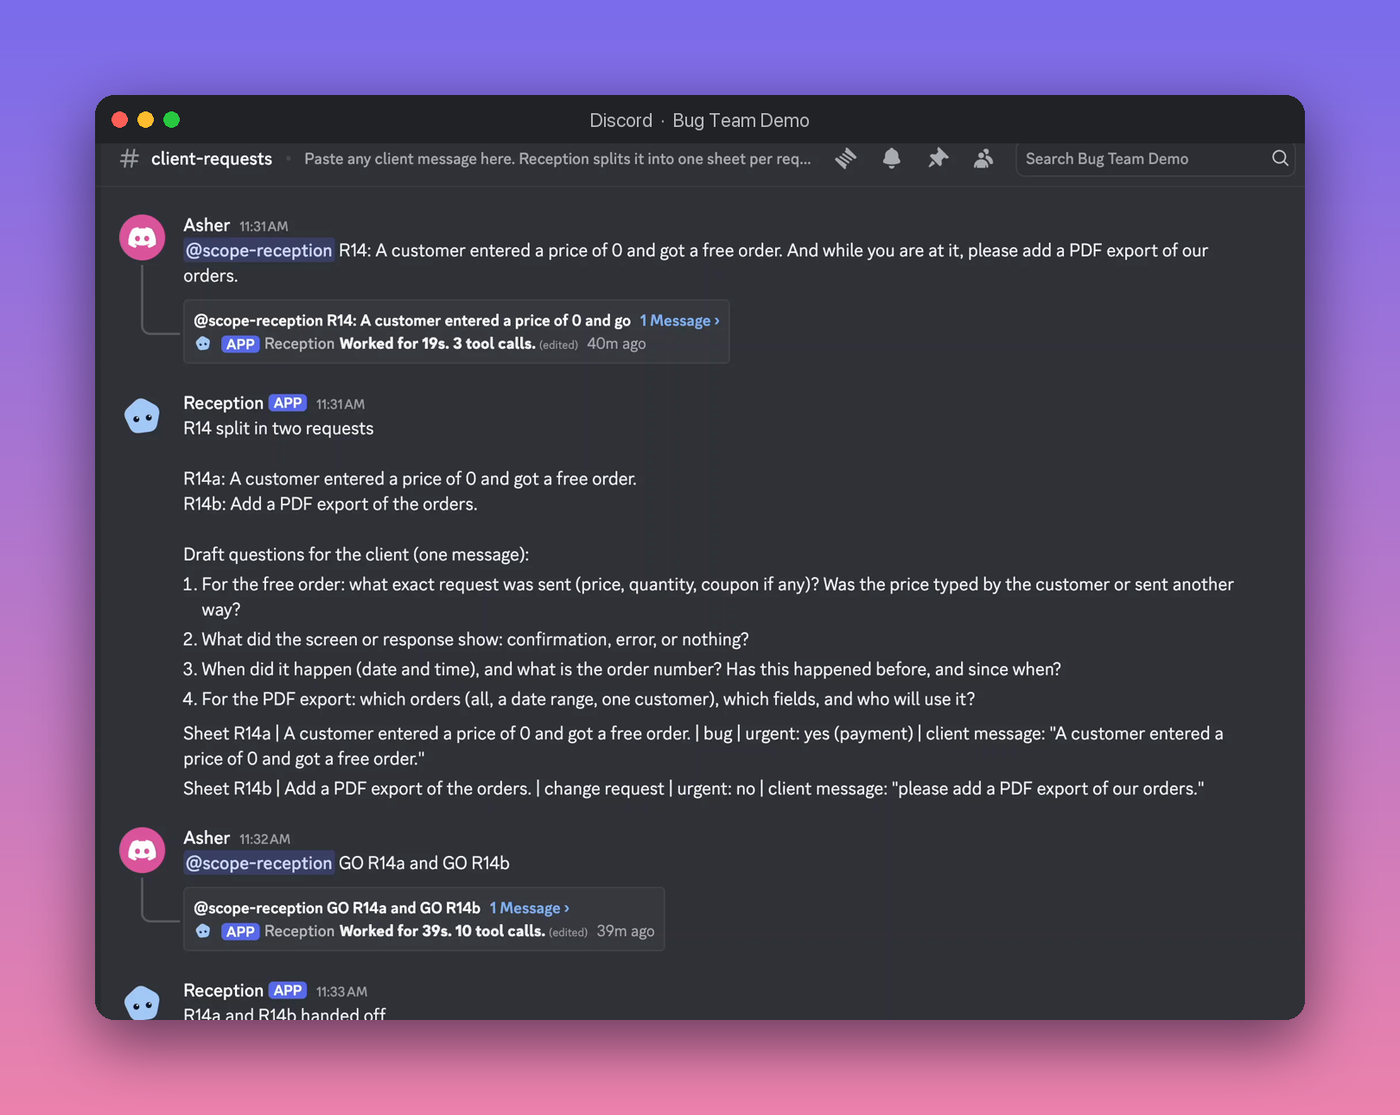
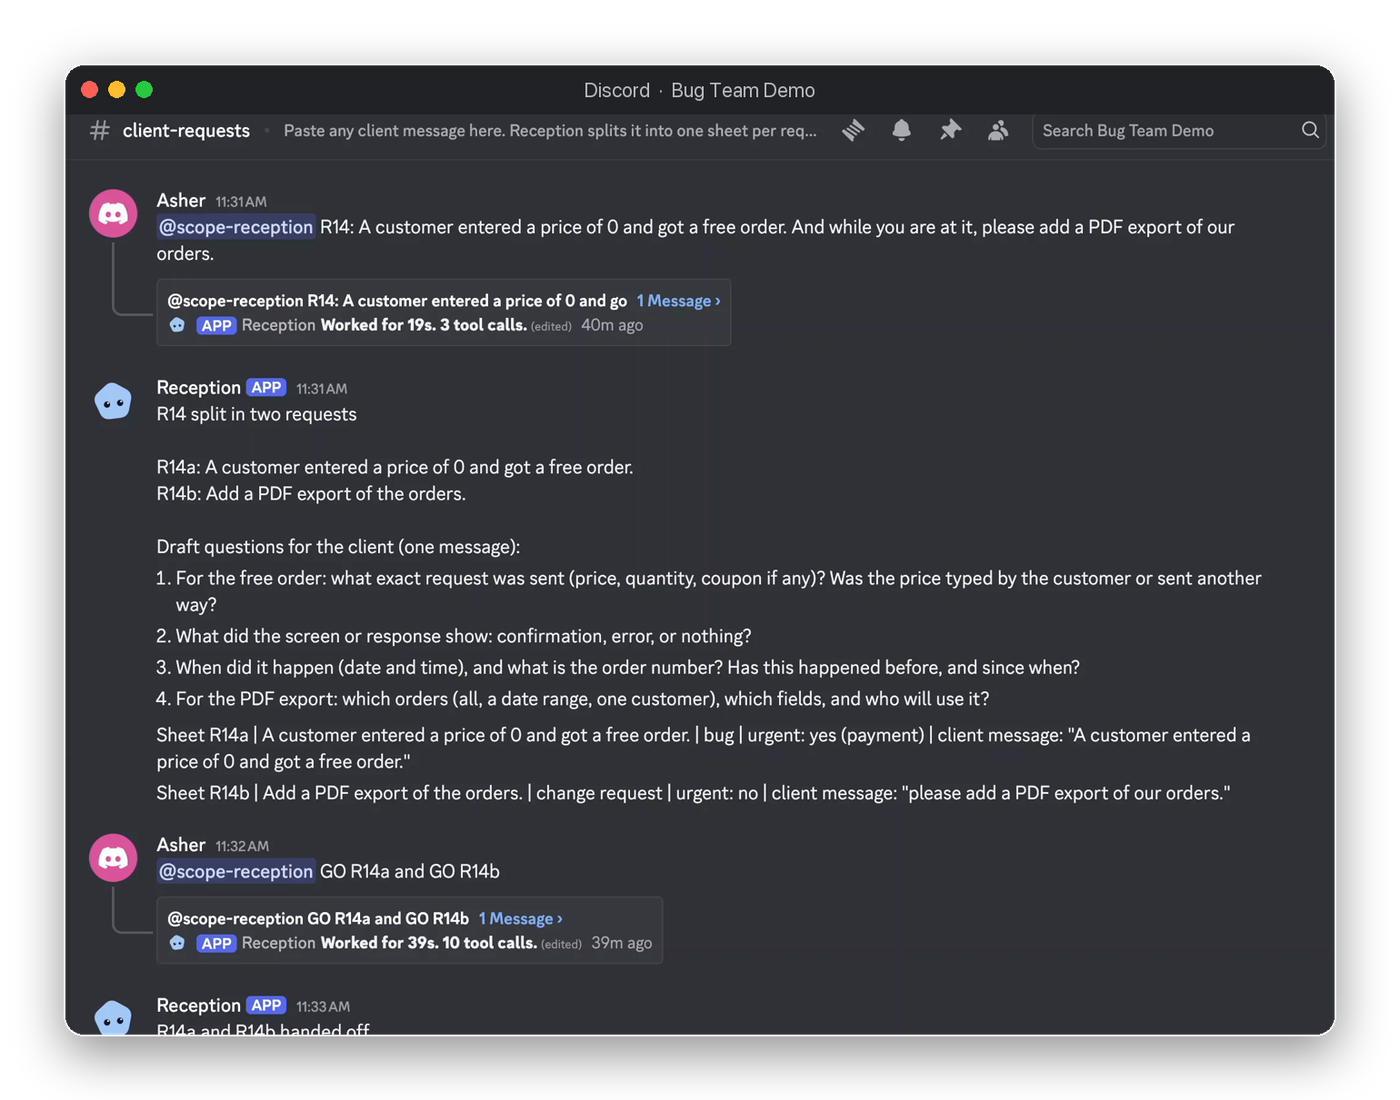
Blog mockups: transparent background, soft shadow, fits light and dark pages

diff --git a/docs/blog/mockup.py b/docs/blog/mockup.py
@@ -1,4 +1,4 @@
-"""Wraps docs/blog/shot*.png in a macOS style window on a soft gradient, (the diagram is diagram.html, rendered with headless Chrome).
+"""Wraps docs/blog/shot*.png in a macOS style window with a soft shadow on a transparent background, (the diagram is diagram.html, rendered with headless Chrome).
 
 Usage: python3 docs/blog/mockup.py   (Pillow). Reads shotN.png, writes shotN_mock.png and diagram.png.
 """
@@ -42,87 +42,21 @@ def window(shot, title):
 
 
 def mock(path):
+    """Transparent background with a soft shadow, so the window sits on any page color (Medium light or dark)."""
     shot = Image.open(path).convert("RGB")
     win, mask = window(shot, "Discord  ·  Bug Team Demo")
-    pad = 110
+    pad = 70
     W, H = win.width + 2 * pad, win.height + 2 * pad
-    bg = gradient(W, H, (122, 108, 236), (236, 130, 172))
     shadow = Image.new("RGBA", (W, H), (0, 0, 0, 0))
-    ImageDraw.Draw(shadow).rounded_rectangle((pad, pad + 24, pad + win.width, pad + win.height + 24), 22,
-                                             fill=(20, 10, 40, 150))
-    bg = Image.alpha_composite(bg.convert("RGBA"), shadow.filter(ImageFilter.GaussianBlur(34)))
-    bg.paste(win, (pad, pad), mask)
+    ImageDraw.Draw(shadow).rounded_rectangle((pad, pad + 18, pad + win.width, pad + win.height + 18), 22,
+                                             fill=(0, 0, 0, 110))
+    out_im = shadow.filter(ImageFilter.GaussianBlur(26))
+    out_im.paste(win.convert("RGBA"), (pad, pad), mask)
+    ImageDraw.Draw(out_im).rounded_rectangle((pad, pad, pad + win.width - 1, pad + win.height - 1), 22,
+                                             outline=(255, 255, 255, 38), width=2)  # keeps the edge visible on dark pages
     out = path.replace(".png", "_mock.png")
-    bg.convert("RGB").resize((1400, H * 1400 // W), Image.LANCZOS).save(out, optimize=True)
+    out_im.resize((1400, H * 1400 // W), Image.LANCZOS).save(out, optimize=True)
     return out
-
-
-def diagram():
-    W, H = 2000, 1240
-    im = gradient(W, H, (246, 247, 251), (233, 236, 246)).convert("RGBA")
-    d = ImageDraw.Draw(im)
-    PERSON, AGENT, TOOL = ((255, 243, 224), (240, 160, 60)), ((228, 238, 255), (90, 130, 240)), ((226, 247, 236), (52, 168, 110))
-
-    def card(x, y, w, h, kind, title, sub):
-        fill, accent = kind
-        sh = Image.new("RGBA", im.size, (0, 0, 0, 0))
-        ImageDraw.Draw(sh).rounded_rectangle((x, y + 8, x + w, y + h + 8), 22, fill=(40, 50, 90, 45))
-        im.alpha_composite(sh.filter(ImageFilter.GaussianBlur(14)))
-        d.rounded_rectangle((x, y, x + w, y + h), 22, fill=(255, 255, 255))
-        d.rounded_rectangle((x, y, x + 12, y + h), 6, fill=accent)
-        d.text((x + 36, y + h / 2 - 18), title, font=font(30), fill=(25, 28, 40), anchor="lm")
-        d.text((x + 36, y + h / 2 + 20), sub, font=font(22), fill=(110, 115, 135), anchor="lm")
-
-    def arrow(x1, y1, x2, y2):
-        d.line((x1, y1, x2, y2), fill=(150, 156, 180), width=4)
-        d.polygon([(x2, y2), (x2 - 16, y2 - 9), (x2 - 16, y2 + 9)] if x2 > x1 and abs(y2 - y1) < 2 else
-                  [(x2, y2), (x2 - 15, y2 - 12), (x2 - 18, y2 + 6)] if y2 < y1 else
-                  [(x2, y2), (x2 - 18, y2 - 6), (x2 - 15, y2 + 12)], fill=(150, 156, 180))
-
-    def lane(y, label):
-        d.text((90, y), label, font=font(24), fill=(120, 125, 150))
-
-    d.text((W / 2, 80), "One client project, one team chat", font=font(54), fill=(25, 28, 40), anchor="mm")
-    d.text((W / 2, 140), "Scope Firewall on Switch: agents do the legwork, people decide, tools check",
-           font=font(28), fill=(110, 115, 135), anchor="mm")
-    cw, ch, gap, x0 = 400, 120, 70, 90
-    xs = [x0 + i * (cw + gap) for i in range(4)]
-
-    lane(210, "KICKOFF")
-    row = [(PERSON, "Client brief", "pasted in #planning"), (TOOL, "Signed contract", "rules the app must pass"),
-           (TOOL, "Dates proposed", "working days, tests included"), (PERSON, "Project manager", "accepts the date")]
-    for x, (k, t, s) in zip(xs, row):
-        card(x, 250, cw, ch, k, t, s)
-    for x in xs[:-1]:
-        arrow(x + cw + 8, 310, x + cw + gap - 8, 310)
-
-    lane(450, "EVERY CLIENT MESSAGE")
-    card(xs[0], 540, cw, ch, AGENT, "Reception", "splits it, no code access")
-    card(xs[1], 490, cw, ch - 10, AGENT, "Verifier", "Claude Code, #verification")
-    card(xs[1], 620, cw, ch - 10, AGENT, "Contradictor", "Codex, blind, #cross-check")
-    card(xs[2], 540, cw, ch, AGENT, "Planner", "compares both verdicts")
-    card(xs[3], 490, cw, ch - 10, TOOL, "Defect: hotfix", "free, delay proposed")
-    card(xs[3], 620, cw, ch - 10, TOOL, "New feature: quote", "billed, next version")
-    arrow(xs[0] + cw + 8, 580, xs[1] - 8, 545)
-    arrow(xs[0] + cw + 8, 620, xs[1] - 8, 675)
-    arrow(xs[1] + cw + 8, 545, xs[2] - 8, 580)
-    arrow(xs[1] + cw + 8, 675, xs[2] - 8, 620)
-    arrow(xs[2] + cw + 8, 580, xs[3] - 8, 545)
-    arrow(xs[2] + cw + 8, 620, xs[3] - 8, 675)
-
-    lane(800, "DELIVERY")
-    row = [(TOOL, "Staging", "checked against the contract"), (PERSON, "Tech lead", "the only one who promotes"),
-           (TOOL, "Production", "Allow or Decline in the chat"), (PERSON, "Client update", "every date and its reason")]
-    for x, (k, t, s) in zip(xs, row):
-        card(x, 840, cw, ch, k, t, s)
-    for x in xs[:-1]:
-        arrow(x + cw + 8, 900, x + cw + gap - 8, 900)
-
-    for i, (k, t) in enumerate([(PERSON, "a person decides"), (AGENT, "an AI agent works"), (TOOL, "a tested tool checks")]):
-        x = 520 + i * 360
-        d.rounded_rectangle((x, 1080, x + 34, 1114), 9, fill=k[1])
-        d.text((x + 50, 1097), t, font=font(26), fill=(60, 64, 85), anchor="lm")
-    im.convert("RGB").resize((1600, 992), Image.LANCZOS).save(os.path.join(HERE, "diagram.png"), optimize=True)
 
 
 if __name__ == "__main__":
